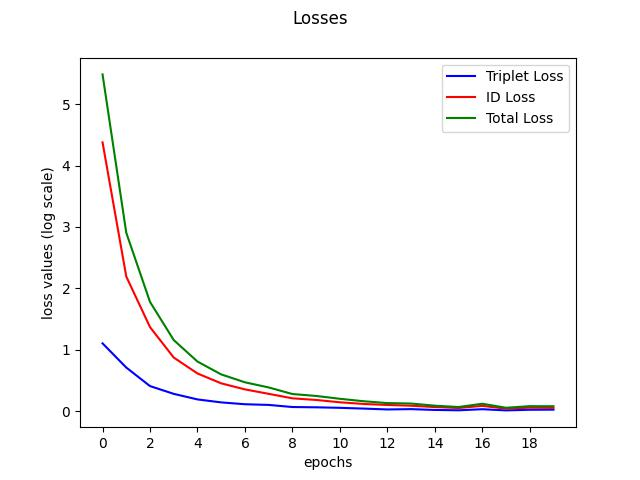
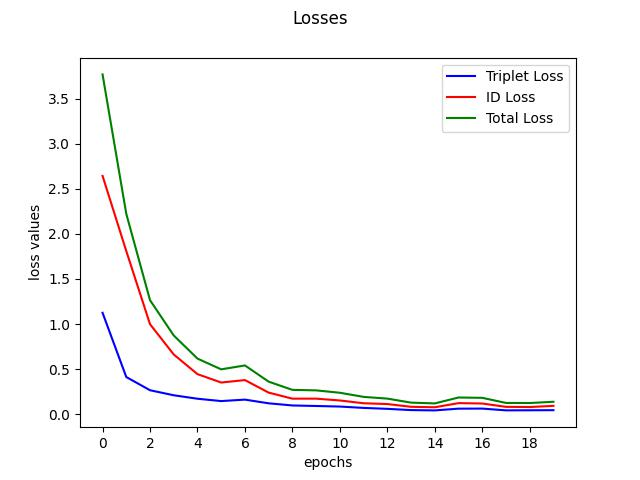
Fixes in ReID/deep

diff --git a/ReID/deep/triplet_loss.py b/ReID/deep/triplet_loss.py
@@ -1,52 +1,47 @@
 import torch
 import torch.nn.functional as F
 from torch import nn
+from enum import Enum
 
 from common.distances import L2_distance, Cosine_distance
-# Prende in ingresso un batch di immagini e i corrispettivi label
 
 class TripletLoss(nn.Module):
-    # for a better loss consider this code: https://github.com/michuanhaohao/reid-strong-baseline/blob/master/layers/triplet_loss.py --pit
-    """Triplet loss with hard positive/negative mining.
-
-    Reference:
-    Hermans et al. In Defense of the Triplet Loss for Person Re-Identification. arXiv:1703.07737.
-
-    Code imported from https://github.com/Cysu/open-reid/blob/master/reid/loss/triplet.py.
-
-    Args:
-        margin (float): margin for triplet.
     """
-    def __init__(self, margin=0.3, distance='euclidean'):
+    Triplet loss with hard positive/negative mining.
+    """
+
+    class Distance_mode(Enum):
+        EUCLIDEAN_L2 = 1
+        COSINE = 2
+
+
+    def __init__(self, margin=0.3, distance:Distance_mode=Distance_mode.EUCLIDEAN_L2):
+        """
+        Args:
+            margin (float): margin for triplet.
+            distance: which type of distance has to be used by loss function.
+        """
         super(TripletLoss, self).__init__()
-        if distance not in ['euclidean', 'cosine']:
-            raise KeyError("Unsupported distance: {}".format(distance))
         self.distance = distance
-        self.margin = margin
         self.ranking_loss = nn.MarginRankingLoss(margin=margin)
 
     def forward(self, inputs, targets):
         """
-
         Args:
         -------------- 
             inputs: feature matrix with shape (batch_size, feat_dim)
             targets: ground truth labels with shape (batch_size)
 
         """
-        n = inputs.size(0)
-
-        # Seems that the sometimes the distance calculation method taken from this repo do wrong calculations.
-        # while our methods are ok.
-
         # Compute pairwise distance, replace by the official when merged
-        if self.distance == 'euclidean':
+        if self.distance == TripletLoss.Distance_mode.EUCLIDEAN_L2:
             dist = L2_distance(inputs, inputs)
 
-        elif self.distance == 'cosine':
+        elif self.distance == TripletLoss.Distance_mode.COSINE:
             dist = Cosine_distance(inputs, inputs)
 
         # For each anchor, find the hardest positive and negative
+        n = targets.size(0)
         mask = targets.expand(n, n).eq(targets.expand(n, n).t())
         hardest_dist_ap, ap_idx = torch.max((dist * mask),dim=0)            # hardest positive examples
         max = torch.max(dist).item()

diff --git a/ReID/deep_trainer.py b/ReID/deep_trainer.py
@@ -113,36 +113,39 @@ def main(args):
     torch.save(model.loss_history.detach().cpu() ,os.path.join("deep","results", "losses.pth"))
 
 
-def train(epoch_idx, model, triplet_loss_function, id_loss_function, optimizer, trainloader, device):
+def train(epoch_idx, model, triplet_loss_function, id_loss_function, optimizer, trainloader, device, verbose:bool=True):
+    
     # Train one epoch
-
     model.train()
     len_trainloader = len(trainloader)
     epoch_triplet_loss = 0
     epoch_id_loss = 0
     epoch_total_loss = 0
+
     for batch_idx, (imgs, pids) in enumerate(trainloader):
         imgs, pids = imgs.to(device=device), pids.to(device=device)
 
         optimizer.zero_grad()
-        feature_vector, outputs = model(imgs)                   # forward
-        tr_loss = triplet_loss_function(feature_vector, pids)   # loss calculation
-        id_loss = id_loss_function(outputs, pids)
+        features_vector, class_results  = model(imgs)
+
+        # loss calculation
+        tr_loss = triplet_loss_function(features_vector, pids)
+        id_loss = id_loss_function(class_results, pids)
+        # loss merge 
         loss = tr_loss + id_loss                                # maybe we could add a discount value between loss values
 
+        # saving loss data for final stats
         epoch_triplet_loss += tr_loss.item()
         epoch_id_loss += id_loss.item()
         epoch_total_loss += loss.item()
 
-        print(f"tr_loss:{tr_loss.item()}; ce_loss: {id_loss.item()}; total:{loss.item()}")
+        # update model
         loss.backward()
         optimizer.step()
 
-        # Calcolo per vedere quelli corretti
-        pred_class = torch.argmax(outputs, dim=1)
-        correct = torch.sum(pred_class == pids)
+        if verbose:
+            print(f"Epoch: {epoch_idx} Batch: {batch_idx}/{len_trainloader}, Loss: {loss.item():.4f} ({tr_loss.item():.4f} + {id_loss.item():.4f})")
 
-        print(f"Epoch: {epoch_idx} Batch: {batch_idx}/{len_trainloader}, Correct: {correct}")
     losses = torch.Tensor((epoch_triplet_loss, epoch_id_loss, epoch_total_loss)).to(device=device) / len_trainloader
     model.loss_history = torch.cat((model.loss_history, losses.unsqueeze(1)),dim=1)
 
@@ -220,7 +223,6 @@ if __name__ == '__main__':
 
 """
 Possible improvements:
-    + warmup Learning Rate --> [1]
     + modify network last stage from stride 2 to stride 1  (Last stride)--> [1]
     + add Center Loss to current loss function --> [1]
 

diff --git a/ReID/deep/model.py b/ReID/deep/model.py
@@ -45,7 +45,7 @@ class ReIDModel(nn.Module):
         else:
             raise Exception("Please specify the model")
    
-        #using bbneck idea, expressed in "A Strong Baseline and Batch Normalization Neck for Deep Person Re-identification. IEEE Transactions on Multimedia"
+        #using bbneck idea, expressed in [1]
         self.use_bbneck = args.use_bbneck 
 
         if not self.use_bbneck:
@@ -58,8 +58,13 @@ class ReIDModel(nn.Module):
             self.classifier.apply(weights_init_classifier)
 
     def forward(self, x):
+        """
+        Returns:
+            (features_vector, class_scores):    during training
+            (features_vector):                  during inference
+        """
         x = self.base(x)                        # (b, output_n, 7, 7)
-        x = F.avg_pool2d(x, x.size()[2:])       # (b, output, 1, 1)
+        x = F.avg_pool2d(x, x.size()[2:])       # (b, output_n, 1, 1)
         global_feat = x.view(x.size(0), -1)     # flatten to (b, output_n)
 
         if self.use_bbneck:
@@ -69,6 +74,6 @@ class ReIDModel(nn.Module):
 
         if self.training:
             cls_score = self.classifier(feat)
-            return cls_score, global_feat       # global feature for triplet loss
+            return global_feat, cls_score        # global features for triplet loss
         else:
             return feat                         # if we are in inference we just want the (final) feature vector.
